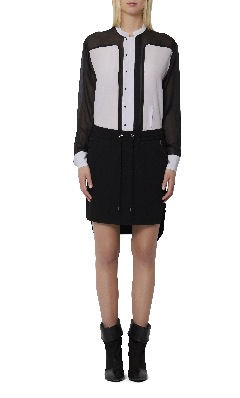
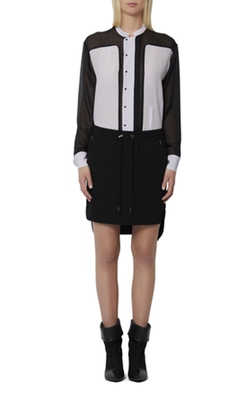
Redid image resizing to remove pixellation. Normalized size to 240 by 400 px.

diff --git a/assets/style.css b/assets/style.css
@@ -194,7 +194,7 @@ section.products {
 
 article.product {
   position: relative;
-  height: 395px;
+  height: 400px;
   -webkit-flex-basis: 240px;
   overflow: hidden;
   margin: 10px;
